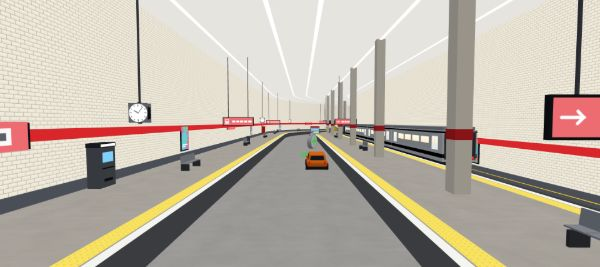
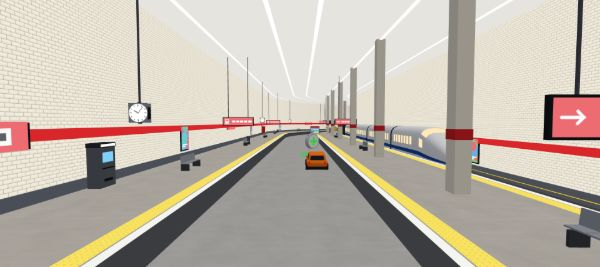
Metro Run: smooth swept pipes and finer bends; the Canberra train's carriages for the passing train, the depot and the junctions' shuttle
The owner: 'Pipes on the wall are jagged' and 'We have a train system in Canberra,
use it'. Every pipe is one swept round tube along the wall (clamps, capped ends),
every ribbon is sampled every 1.5 m in a bend. The passing train, the depot's
stabled trains and the junctions' train are render/trainModel.js makeCarriage cut
down (as a level crossing's train is), instanced; the junction keeps the tug's and
the trolleys' boxes and costs.

Claude-Session: https://claude.ai/code/session_014trpRSggBreKZkfpJKwWKg

Changed region(s): [[0.57, 0.4494, 0.75, 0.6292], [0.78, 0.4794, 0.81, 0.5993], [0.51, 0.5094, 0.54, 0.5693]]

diff --git a/src/delivery/render/themes/metro.js b/src/delivery/render/themes/metro.js
@@ -26,8 +26,8 @@ import { Game } from '../../game.js';
 import { heightOf } from '../tunnelshape.js';
 import { everyFrame } from './sceneryClock.js';
 import { Sound } from '../audio.js';
-import { kit, tileTexture, concreteTexture, liningTexture, floorTexture, tactileTexture, windowTexture, signTexture, clockTexture,
-  digitTexture, DIGIT_CELLS, posterTexture, trainGeometries, CAR_LENGTH } from './metroModels.js';
+import { kit, tileTexture, concreteTexture, liningTexture, floorTexture, tactileTexture, signTexture, clockTexture,
+  digitTexture, DIGIT_CELLS, posterTexture, metroTrainCars, CAR_LENGTH } from './metroModels.js';
 
 // the lines' colours, and each zone's: its line, its walls' tile, its floor
 const LINE = { red: 0xd8262b, blue: 0x1f6fd0, green: 0x2e9b3d, amber: 0xe8a01a };
@@ -85,13 +85,13 @@ export const metro = ({ levelGroup }) => {
   // ---- points and frames
   const pt = (s, lat, y) => { Track.toWorld(s, lat, p); return [p.x, p.y + y, p.z]; };
   // the steps along a stretch: every `base` m on the straight (a flat wall needs no more), 6 m where a height or the train line's
-  // offset eases (by a zone's ends), 3 m in a bend (a 40 m bend's chord strays 3 cm), and at each segment's end and each of `breaks`
+  // offset eases (by a zone's ends), 1.5 m in a bend (a 40 m bend's chord strays 7 mm: no kinks even close up), and at each segment's end and each of `breaks`
   const segEnds = curves.map(c => c[1]), zoneEnds = zones.map(z => z.from);
-  const easing = (s) => zoneEnds.some(e => Math.abs(s - e) < 46);
+  const easing = (s) => zoneEnds.some(e => Math.abs(s - e) < 64);
   const steps = (from, to, base = 12, breaks = []) => {
     const out = [from];
     for (let s = from; s < to;) {
-      const next = Math.min(to, s + base), d = bent(s) || bent(next) || bent((s + next) / 2) ? Math.min(3, base) : easing(s) || easing(next) ? Math.min(6, base) : base;
+      const next = Math.min(to, s + base), d = bent(s) || bent(next) || bent((s + next) / 2) ? Math.min(1.5, base) : easing(s) || easing(next) ? Math.min(6, base) : base;
       s = Math.min(to, s + d);
       out.push(s);
     }
@@ -215,19 +215,42 @@ export const metro = ({ levelGroup }) => {
   const roadLamps = (from, to, every = 8, col = C.white) => { for (let s = from + every / 2; s < to; s += every) for (const d of [-1.7, 1.7]) lamps.on(s, (L(s) + R(s)) / 2 + d, hAt(s) - 0.09, 0, 0.35, 0.12, 1.8, col); };
   // cable trays on a wall (side -1 left at L, +1 right at R or `at`): two trays, the cables in them, at 3.4 and 3.9 m
   const trays = (from, to, side, at = side < 0 ? L : R, opts = {}) => {
+    for (let q = from + 3; q < to; q += 6) if (!opts.skip?.(q)) cubes.on(q, at(q) - side * 0.2, 3.34, 0, 0.42, 0.06, 0.06, 0x4a4f57); // (its brackets)
     for (const y of [3.4, 3.9]) {
       plainS.ribbon(from, to, (s) => [at(s), y], (s) => [at(s) - side * 0.38, y], 0x6f737a, null, opts);
       plainS.ribbon(from, to, (s) => [at(s) - side * 0.38, y], (s) => [at(s) - side * 0.38, y + 0.1], 0x8a8f96, null, opts);
       onS.ribbon(from, to, (s) => [at(s) - side * 0.06, y + 0.02], (s) => [at(s) - side * 0.3, y + 0.02], y < 3.6 ? 0x1b1d22 : 0xc8501a, null, opts);
     }
   };
-  // a pipe along a wall: a square section (its top lit, its underside dark) as four ribbons, `r` m half its width, `d` m off the wall
+  // a PIPE along a wall: ONE swept tube following the wall's line (8 sides, its rings sharing their vertices so it shades smooth;
+  // a ring every 3 m in a bend, 12 on the straight: steps()), in pieces of about 300 m (so what is out of view is left out); a
+  // clamp to the wall every 3 m (small, instanced). Nothing stepped: no chords, no ends overlapping
+  const pipeMaterial = new THREE.MeshLambertMaterial({ vertexColors: true });
   const pipe = (from, to, side, y, col, at = side < 0 ? L : R, opts = {}) => {
-    const r = 0.13, d = 0.3, c = (k) => colour.set(col).multiplyScalar(k).getHex(), o = (s, e) => at(s) - side * (d + e);
-    plainS.ribbon(from, to, (s) => [o(s, -r), y + r], (s) => [o(s, r), y + r], c(1.15), null, opts);
-    plainS.ribbon(from, to, (s) => [o(s, r), y + r], (s) => [o(s, r), y - r], c(0.9), null, opts);
-    plainS.ribbon(from, to, (s) => [o(s, r), y - r], (s) => [o(s, -r), y - r], c(0.55), null, opts);
-    plainS.ribbon(from, to, (s) => [o(s, -r), y - r], (s) => [o(s, -r), y + r], c(0.7), null, opts);
+    const r = 0.14, d = 0.32, SIDES = 8, ss = steps(from, to, 12, opts.breaks || []);
+    colour.set(col);
+    for (let start = 0; start < ss.length - 1;) {
+      const end = Math.min(ss.length - 1, start + 60), pos = [], nor = [], cols = [], idx = [];
+      for (let i = start; i <= end; i++) {
+        const s0 = ss[i], c = pt(s0, at(s0) - side * d, y), o = pt(s0, at(s0) - side * d + 1, y); // (the lateral: across the road)
+        const ux = o[0] - c[0], uz = o[2] - c[2], ul = Math.hypot(ux, uz) || 1;
+        for (let k = 0; k < SIDES; k++) {
+          const a = k / SIDES * Math.PI * 2, nx = Math.cos(a) * ux / ul, ny = Math.sin(a), nz = Math.cos(a) * uz / ul;
+          pos.push(c[0] + nx * r, c[1] + ny * r, c[2] + nz * r); nor.push(nx, ny, nz); cols.push(colour.r, colour.g, colour.b);
+        }
+        if (i > start) for (let k = 0; k < SIDES; k++) { const a0 = (i - start - 1) * SIDES, a1 = a0 + SIDES, k1 = (k + 1) % SIDES; idx.push(a0 + k, a1 + k, a1 + k1, a0 + k, a1 + k1, a0 + k1); }
+      }
+      const geo = new THREE.BufferGeometry();
+      geo.setAttribute('position', new THREE.Float32BufferAttribute(pos, 3));
+      geo.setAttribute('normal', new THREE.Float32BufferAttribute(nor, 3));
+      geo.setAttribute('color', new THREE.Float32BufferAttribute(cols, 3));
+      geo.setIndex(idx);
+      geo.computeBoundingSphere();
+      levelGroup.add(new THREE.Mesh(geo, pipeMaterial));
+      start = end;
+    }
+    for (let q = from + 1.5; q < to; q += 3) if (!opts.skip?.(q)) cubes.on(q, at(q) - side * d / 2, y, 0, d, 0.08, 0.12, 0x4a4f57);
+    for (const q of [from, to]) cubes.on(q, at(q) - side * (d + 0.02) / 2, y, 0, d + 0.18, 0.32, 0.32, col); // (each end turned into the wall: no open end)
   };
   // kilometre markers on a wall: a white plate, the distance on it in the digits' cells ("1.2"), every 100 m
   const kmMarkers = (from, to, side, y = 1.9, at = side < 0 ? L : R) => {
@@ -391,7 +414,11 @@ export const metro = ({ levelGroup }) => {
     }
     for (let s = from + 4; s < to - 2; s += 9) lamps.on(s, (L(s) + R(s)) / 2, hAt(s) - 0.12, 0, 0.4, 0.14, 1.4, C.white);
     kmMarkers(from, to, -1);
-    pipe(from, to, 1, 4.4, 0x3a5a8a);
+    { // (the pipe on the right, in runs between the junctions' mouths: it turns into the wall short of each)
+      let a = from;
+      for (const m of mouths.filter(m => m.s > from && m.s < to).sort((x, y) => x.s - y.s)) { pipe(a, m.s - MOUTH - 0.3, 1, 4.4, 0x3a5a8a); a = m.s + MOUTH + 0.3; }
+      pipe(a, to, 1, 4.4, 0x3a5a8a);
+    }
   };
 
   // ---- INTERCHANGE: a tall hall, a concourse each side behind a low barrier on the wall line
@@ -530,7 +557,7 @@ export const metro = ({ levelGroup }) => {
       for (const d of [8, 13.5]) {
         for (const r of [-0.72, 0.72]) plainS.ribbon(from, to, (s) => [edge(s) + side * d + r - 0.04, 0.2], (s) => [edge(s) + side * d + r + 0.04, 0.2], C.rail);
         plainS.ribbon(from, to, (s) => [edge(s) + side * d - 1.1, 0.1], (s) => [edge(s) + side * d + 1.1, 0.1], 0x7a7470);
-        for (let s = from + 30 + rand() * 20; s + CARS * CAR_LENGTH < to - 15; s += 5 * CAR_LENGTH + 30 + rand() * 40) stabled.push({ s, lat: (q) => edge(q) + side * d, n: 5, line: d < 10 ? LINE.red : LINE.green });
+        if (d < 10) for (let s = from + 30 + rand() * 20; s + CARS * CAR_LENGTH < to - 15; s += 5 * CAR_LENGTH + 30 + rand() * 40) stabled.push({ s, lat: (q) => edge(q) + side * d, n: 5, line: d < 10 ? LINE.red : LINE.green });
       }
       for (let s = from + 25; s < to; s += 50) { tubes.on(s, edge(s) + side * 18, 8, 0, 0.35, 16, 0.35, 0x6f757d); lamps.on(s, edge(s) + side * 18 - side * 0.6, 16, 0, 1.6, 0.3, 0.8, C.warm); }
     }
@@ -625,49 +652,52 @@ export const metro = ({ levelGroup }) => {
   dummy.rotation.order = 'XYZ';
   for (const S of sheets) S.flush();
 
-  // ---- the TRAINS: one train of CARS cars for the moving one (only one train line is near the player at a time), and the depot's
-  // stabled ones (instanced, their lights off)
-  const G = trainGeometries();
-  const winTex = windowTexture();
-  const trainMeshes = (count, lit) => {
-    const m = {
-      body: new THREE.InstancedMesh(G.body, new THREE.MeshLambertMaterial({ vertexColors: true }), count),
-      band: new THREE.InstancedMesh(G.band, new THREE.MeshLambertMaterial({ color: 0xffffff }), count),
-      windows: new THREE.InstancedMesh(G.windows, new THREE.MeshBasicMaterial({ map: winTex, side: THREE.DoubleSide, color: lit ? 0xffffff : 0x5a5e66 }), count),
-    };
-    if (lit) m.lamps = new THREE.InstancedMesh(G.lamps, new THREE.MeshBasicMaterial({ vertexColors: true }), 2);
-    for (const mesh of Object.values(m)) { mesh.frustumCulled = false; levelGroup.add(mesh); }
+  // ---- the TRAINS: the CANBERRA TRAIN's carriages (render/trainModel.js makeCarriage, its white and blue shell, cut down to 12 m a
+  // car as a level crossing's train is: metroModels.js metroTrainCars), instanced: its front car, its middle ones, its back one
+  // (each a solid and a lit geometry: two draw calls a kind); the moving train's windows lit, the depot's stabled cars' dark
+  const kindsOf = (cars) => ({ front: cars.front, mid: cars.mid, back: cars.back });
+  const trainMeshes = (cars, counts) => {
+    const m = {};
+    for (const [kind, g] of Object.entries(kindsOf(cars))) {
+      if (!counts[kind]) continue;
+      m[kind] = [];
+      for (const [geo, material] of [[g.solid, new THREE.MeshLambertMaterial({ vertexColors: true, side: THREE.DoubleSide })], [g.lit, new THREE.MeshBasicMaterial({ vertexColors: true, side: THREE.DoubleSide })]]) {
+        if (!geo) continue;
+        const mesh = new THREE.InstancedMesh(geo, material, counts[kind]);
+        mesh.frustumCulled = false;
+        levelGroup.add(mesh);
+        m[kind].push(mesh);
+      }
+    }
     return m;
   };
-  const setCar = (m, i, s, lat, dir, line, lampSlot = -1) => {
+  const setCar = (meshes, i, s, lat, dir) => {
     const a = pt(s - 4, lat(s - 4), 0), b = pt(s + 4, lat(s + 4), 0), mid = pt(s, lat(s), 0);
     dummy.position.set(mid[0], mid[1], mid[2]);
     dummy.rotation.set(0, Math.atan2(b[0] - a[0], b[2] - a[2]) + (dir < 0 ? Math.PI : 0), 0);
     dummy.scale.set(1, 1, 1);
     dummy.updateMatrix();
-    m.body.setMatrixAt(i, dummy.matrix); m.band.setMatrixAt(i, dummy.matrix); m.windows.setMatrixAt(i, dummy.matrix);
-    m.band.setColorAt(i, colour.set(line));
-    if (lampSlot >= 0 && m.lamps) m.lamps.setMatrixAt(lampSlot, dummy.matrix);
+    for (const mesh of meshes) mesh.setMatrixAt(i, dummy.matrix);
   };
-  const hide = (m, i) => { dummy.position.set(0, -500, 0); dummy.scale.set(0.001, 0.001, 0.001); dummy.updateMatrix(); for (const k of ['body', 'band', 'windows']) m[k].setMatrixAt(i, dummy.matrix); };
-  const touch = (m) => { for (const mesh of Object.values(m)) { mesh.instanceMatrix.needsUpdate = true; if (mesh.instanceColor) mesh.instanceColor.needsUpdate = true; } };
+  const hide = (meshes, i) => { dummy.position.set(0, -500, 0); dummy.scale.set(0.001, 0.001, 0.001); dummy.updateMatrix(); for (const mesh of meshes) mesh.setMatrixAt(i, dummy.matrix); };
+  const touch = (m) => { for (const list of Object.values(m)) for (const mesh of list) mesh.instanceMatrix.needsUpdate = true; };
   if (stabled.length) {
-    const m = trainMeshes(stabled.reduce((n, t) => n + t.n, 0), false);
+    const n = stabled.reduce((k, t) => k + t.n, 0), m = trainMeshes(metroTrainCars(null), { mid: n });
     let i = 0;
-    for (const t of stabled) for (let k = 0; k < t.n; k++) setCar(m, i++, t.s + (k + 0.5) * CAR_LENGTH, t.lat, 1, t.line);
+    for (const t of stabled) for (let k = 0; k < t.n; k++) setCar(m.mid, i++, t.s + (k + 0.5) * CAR_LENGTH, t.lat, 1);
     touch(m);
-    for (const mesh of Object.values(m)) { mesh.computeBoundingSphere(); mesh.frustumCulled = true; } // (standing still: left out when the depot is out of view)
+    for (const mesh of m.mid) { mesh.computeBoundingSphere(); mesh.frustumCulled = true; } // (standing still: left out when the depot is out of view)
   }
   if (spans.length) {
-    const m = trainMeshes(CARS, true), lat = TC;
+    const m = trainMeshes(metroTrainCars(0xffe9b8), { front: 1, mid: CARS - 2, back: 1 }), lat = TC;
     const T = { on: false, head: 0, dir: 1, v: 0, span: null, wait: 0.6, n: 0, heard: false, last: 0 };
+    const slot = (i) => i === 0 ? [m.front, 0] : i === CARS - 1 ? [m.back, 0] : [m.mid, i - 1];
     const place = () => {
       for (let i = 0; i < CARS; i++) {
-        const s = T.head - T.dir * (i + 0.5) * CAR_LENGTH;
-        if (!T.on || s < T.span.from - CAR_LENGTH / 2 || s > T.span.to + CAR_LENGTH / 2) { hide(m, i); continue; }
-        setCar(m, i, s, lat, T.dir, lineAt(s), i === 0 ? 0 : i === CARS - 1 ? 1 : -1);
+        const s = T.head - T.dir * (i + 0.5) * CAR_LENGTH, [meshes, k] = slot(i);
+        if (!T.on || s < T.span.from - CAR_LENGTH / 2 || s > T.span.to + CAR_LENGTH / 2) { hide(meshes, k); continue; }
+        setCar(meshes, k, s, lat, T.dir);
       }
-      if (!T.on) { dummy.position.set(0, -500, 0); dummy.scale.set(0.001, 0.001, 0.001); dummy.updateMatrix(); m.lamps.setMatrixAt(0, dummy.matrix); m.lamps.setMatrixAt(1, dummy.matrix); }
       touch(m);
     };
     place();
@@ -678,7 +708,7 @@ export const metro = ({ levelGroup }) => {
         T.wait -= dt;
         if (span && T.wait <= 0 && span.to - here > 60) { // a train: by turns one overtaking from behind, then one coming the other way
           T.on = true; T.span = span; T.heard = false;
-          if (T.n++ % 2 === 0) { T.dir = 1; T.head = Math.max(span.from, here - 20); T.v = 0; } else { T.dir = -1; T.head = Math.min(span.to + CARS * CAR_LENGTH, here + 320); T.v = 20; }
+          if (T.n++ % 2 === 0) { T.dir = 1; T.head = Math.max(span.from, here - 20); T.v = 0; } else { T.dir = -1; T.head = Math.min(span.to + CARS * CAR_LENGTH, here + 320); T.v = 20; if (dt < 0.3) Sound.play('trainHorn', 0.2); } // (the Canberra train's own sounds: its horn coming, its rush going by)
         }
         return;
       }

diff --git a/src/delivery/render/themes/metroModels.js b/src/delivery/render/themes/metroModels.js
@@ -2,14 +2,15 @@
 // The theme's plain obstacles, each the box and cost of the kind it stands in for (registered in ../obstacleModels.js;
 // config.js obstacleKinds, collision.js SIZE): a ticket gate (a crate), a ride-on floor scrubber (a bale), a red track lamp
 // on its tripod (a cone); named outright a rail trolley with sleepers on it (a crate) and a wayfinding board on its legs (a
-// sign); and a tunnel junction's works train (themes.js junctionTrain): a battery locomotive (the tug's box and cost) and
-// flat wagons with a cable drum (a trolley's). Each is ONE merged mesh in vertex colours (and one lit mesh for its lamps):
+// sign); and a tunnel junction's train (themes.js junctionTrain): a shuttle of the Canberra train's carriages cut down to the
+// tug's and the trolleys' boxes and costs. Each is ONE merged mesh in vertex colours (and one lit mesh for its lamps):
 // a draw call or two, not one a part. Each faces local +z, its feet on y = 0. No people anywhere.
 // The pictures (every one drawn in code on a canvas, the first time it is wanted, then kept): glazed wall tiles, concrete,
-// a tunnel's lining segments, the polished floor, the tactile strip, the trains' windows, the signs (pictograms and
+// a tunnel's lining segments, the polished floor, the tactile strip, the signs (pictograms and
 // abstract bars, no words a brand could own), a clock face, the kilometre markers' digits.
 import * as THREE from 'three';
 import { mergeGeometries } from 'three/examples/jsm/utils/BufferGeometryUtils.js';
+import { makeCarriage } from '../trainModel.js';
 
 const colour = new THREE.Color(), euler = new THREE.Euler(), matrix = new THREE.Matrix4();
 // ---- a kit of parts merged into one mesh in vertex colours (and one unlit for whatever glows)
@@ -153,15 +154,6 @@ export const tactileTexture = () => canvasTexture('tactile', 64, 64, (g, w, h) =
   g.fillStyle = '#fff2a8';
   for (let y = 8; y < h; y += 16) for (let x = 8; x < w; x += 16) { g.beginPath(); g.arc(x - 1.5, y - 1.5, 1.6, 0, Math.PI * 2); g.fill(); }
 });
-// A TRAIN'S WINDOWS, one side of a car (256 x 64): lit panes between dark pillars, a door each end with its narrow lit panes.
-// Tinted grey for a train standing in the depot, its lights off
-export const windowTexture = () => canvasTexture('windows', 256, 64, (g, w, h) => {
-  g.fillStyle = '#2a2d33';
-  g.fillRect(0, 0, w, h);
-  const pane = (x, y, pw, ph) => { const grad = g.createLinearGradient(x, y, x, y + ph); grad.addColorStop(0, '#fff6d8'); grad.addColorStop(1, '#ffd98a'); g.fillStyle = grad; g.fillRect(x, y, pw, ph); };
-  for (const x of [8, 224]) { g.fillStyle = '#c9ccd2'; g.fillRect(x, 4, 24, 60); pane(x + 3, 8, 7, 30); pane(x + 14, 8, 7, 30); } // the doors
-  for (let k = 0; k < 4; k++) pane(44 + k * 44, 10, 36, 30); // the windows
-}, false);
 // SIGNS: a board in a line's colour with a white pictogram on the left and abstract white bars for its words (no words: the
 // owner's rule, no names a brand could own). `kind`: 'train' (a train's front), 'exit' (a door with an arrow out of it),
 // 'stairs' (steps going down), 'arrow' (an arrow along), 'name' (a station's name board: a band, bars in its middle)
@@ -305,55 +297,68 @@ export const METRO_OBSTACLES = {
     }
     return grounded(group, 1.1);
   },
-  // a tunnel junction's works train (hazards.js, themes.js junctionTrain): a BATTERY LOCOMOTIVE, a yellow cab with black and yellow
-  // ends, a lamp lit and a beacon (the tug's box and cost)...
-  batteryLoco: () => {
-    const K = kit(), yellow = 0xf2c21d, dark = 0x1b1d22;
-    K.box(1.3, 0.55, 2.0, yellow, 0, 0.55, 0);
-    K.box(1.0, 0.65, 0.8, yellow, 0, 1.15, -0.45);                          // the cab
-    K.box(1.02, 0.3, 0.6, 0x9fc4e8, 0, 1.25, -0.45);                         // its windows (no driver)
-    K.box(1.32, 0.2, 0.06, dark, 0, 0.4, 1.02); K.box(1.32, 0.2, 0.06, dark, 0, 0.4, -1.02);
-    for (let k = 0; k < 4; k++) K.box(0.18, 0.2, 0.07, yellow, -0.5 + k * 0.33, 0.4, 1.04);
-    K.box(1.2, 0.2, 2.0, 0x2a2d33, 0, 0.2, 0);
-    for (const x of [-0.5, 0.5]) for (const z of [-0.6, 0.6]) K.cyl(0.2, 0.2, 0.12, 12, dark, x, 0.2, z, 0, 0, Math.PI / 2);
-    K.glowBox(0.22, 0.14, 0.04, 0xfff4c8, -0.4, 0.75, 1.01); K.glowBox(0.22, 0.14, 0.04, 0xfff4c8, 0.4, 0.75, 1.01);
-    K.box(0.18, 0.16, 0.18, dark, 0.3, 1.56, -0.45);
-    K.glowCyl(0.1, 0.1, 0.16, 10, 0xffa020, 0.3, 1.72, -0.45);
-    return K.done();
-  },
-  // ...and its FLAT WAGONS, each a cable drum chained on (a trolley's box and cost)
-  flatWagon: () => {
-    const K = kit();
-    K.box(1.0, 0.12, 1.4, 0x4a4f57, 0, 0.38, 0);
-    for (const x of [-0.4, 0.4]) for (const z of [-0.45, 0.45]) K.cyl(0.16, 0.16, 0.08, 12, 0x1b1d22, x, 0.18, z, 0, 0, Math.PI / 2);
-    K.cyl(0.42, 0.42, 0.12, 16, 0xa8783e, -0.3, 0.86, 0, 0, 0, Math.PI / 2); K.cyl(0.42, 0.42, 0.12, 16, 0xa8783e, 0.3, 0.86, 0, 0, 0, Math.PI / 2);
-    K.cyl(0.3, 0.3, 0.5, 14, 0x1b1d22, 0, 0.86, 0, 0, 0, Math.PI / 2);     // the cable wound on it
-    K.box(1.06, 0.06, 0.06, 0xf2c21d, 0, 0.47, 0.72);
-    return K.done();
-  },
+  // a tunnel junction's train (hazards.js, themes.js junctionTrain): a SHUTTLE OF THE CANBERRA TRAIN'S CARRIAGES, cut down (as a level
+  // crossing's train is: render/roadside.js) to the hit boxes the junction's train has always had: its lead car the tug's box and cost,
+  // the two behind a trolley's each; the last one's nose points back. Their windows lit (a tunnel's train)
+  metroCarFront: () => shuttleCar('front'),
+  metroCarMid: () => shuttleCar('mid'),
+  metroCarBack: () => shuttleCar('back'),
 };
 
-// ---- a TRAIN's car, for instancing (metro.js): 12 m long along local z, 2.6 m wide, its floor 1.1 m up. The body (silver, the
-// roof, the skirts and bogies dark: one geometry in vertex colours), the band in the line's colour (its own geometry, coloured by
-// the instance), the windows (two planes, one each side, showing windowTexture) and the end's lamps (lit). No people inside: the
-// windows are lit panes, nothing behind them
-export const CAR_LENGTH = 12;
-export const trainGeometries = () => {
-  const body = kit(), band = kit(), lamps = kit(), L = CAR_LENGTH - 0.4;
-  body.box(2.6, 2.4, L, 0xd6d9de, 0, 2.2, 0);
-  body.box(2.4, 0.3, L - 0.2, 0x9aa0a8, 0, 3.5, 0);                       // the roof
-  body.box(2.5, 0.45, L - 1.2, 0x2a2d33, 0, 0.82, 0);                     // the skirt
-  for (const z of [-L / 2 + 2, L / 2 - 2]) { body.box(2.0, 0.5, 2.4, 0x1b1d22, 0, 0.45, z); for (const x of [-0.78, 0.78]) for (const dz of [-0.75, 0.75]) body.cyl(0.36, 0.36, 0.1, 8, 0x3a3d42, x, 0.36, z + dz, 0, 0, Math.PI / 2); }
-  for (const z of [-L / 2 - 0.05, L / 2 + 0.05]) body.box(2.3, 2.0, 0.1, 0x3a3d42, 0, 2.2, z); // the ends' gangway faces
-  band.box(2.64, 0.3, L, 0xffffff, 0, 1.45, 0);
-  band.box(2.64, 0.12, L, 0xffffff, 0, 3.25, 0);
-  for (const x of [-0.85, 0.85]) lamps.glowBox(0.35, 0.18, 0.06, 0xfff4d0, x, 1.35, L / 2 + 0.12);
-  for (const x of [-0.85, 0.85]) lamps.glowBox(0.35, 0.18, 0.06, 0xff2a1a, x, 1.35, -L / 2 - 0.12);
-  // the windows: a plane each side, uv across the whole car
-  const win = new THREE.BufferGeometry(), W = 1.31, y0 = 1.85, y1 = 3.0, z0 = -L / 2 + 0.3, z1 = L / 2 - 0.3;
-  win.setAttribute('position', new THREE.Float32BufferAttribute([W, y0, z1, W, y0, z0, W, y1, z0, W, y1, z1, -W, y0, z0, -W, y0, z1, -W, y1, z1, -W, y1, z0], 3));
-  win.setAttribute('uv', new THREE.Float32BufferAttribute([0, 0, 1, 0, 1, 1, 0, 1, 0, 0, 1, 0, 1, 1, 0, 1], 2));
-  win.setIndex([0, 1, 2, 0, 2, 3, 4, 5, 6, 4, 6, 7]);
-  win.computeVertexNormals();
-  return { body: body.geometries().solid, band: band.geometries().solid, lamps: lamps.geometries().lit, windows: win };
+// ---- THE CANBERRA TRAIN'S CARRIAGES, for the metro (render/trainModel.js makeCarriage: the bullet train's white and blue shell, its
+// SECTION and paint; a level crossing's train is the same, cut down). `flatten` merges a carriage's meshes into one geometry in vertex
+// colours, to be instanced (a draw call for every car of a kind, not five a car), and with `litGlass` its dark window panels become
+// lit ones (the inside lit: a train in a tunnel), moved into a second, unlit geometry with its lamps
+const GLASS = new THREE.Color(0x1b2430);
+export const flatten = (group, litGlass = null) => {
+  group.updateMatrixWorld(true);
+  const solid = [], lit = [], glass = litGlass && new THREE.Color(litGlass);
+  group.traverse((m) => {
+    if (!m.isMesh) return;
+    const g = (m.geometry.index ? m.geometry.toNonIndexed() : m.geometry.clone());
+    g.applyMatrix4(m.matrixWorld);
+    for (const name of Object.keys(g.attributes)) if (!['position', 'normal', 'color'].includes(name)) g.deleteAttribute(name);
+    const n = g.attributes.position.count, basic = m.material.type === 'MeshBasicMaterial';
+    if (!g.attributes.color) { const c = m.material.color, a = new Float32Array(n * 3); for (let i = 0; i < n; i++) a.set([c.r, c.g, c.b], i * 3); g.setAttribute('color', new THREE.BufferAttribute(a, 3)); }
+    if (basic) { lit.push(g); return; }
+    if (!glass) { solid.push(g); return; }
+    // (the glass's triangles apart: lit)
+    const col = g.attributes.color.array, pos = g.attributes.position.array, nor = g.attributes.normal.array, keep = [[], [], []], move = [[], [], []];
+    for (let t = 0; t < n; t += 3) {
+      const isGlass = Math.abs(col[t * 3] - GLASS.r) < 1e-4 && Math.abs(col[t * 3 + 1] - GLASS.g) < 1e-4 && Math.abs(col[t * 3 + 2] - GLASS.b) < 1e-4;
+      const to = isGlass ? move : keep;
+      for (let v = t; v < t + 3; v++) { to[0].push(pos[v * 3], pos[v * 3 + 1], pos[v * 3 + 2]); to[1].push(nor[v * 3], nor[v * 3 + 1], nor[v * 3 + 2]); to[2].push(...(isGlass ? [glass.r, glass.g, glass.b] : [col[v * 3], col[v * 3 + 1], col[v * 3 + 2]])); }
+    }
+    for (const [list, [P, N, C]] of [[solid, keep], [lit, move]]) {
+      if (!P.length) continue;
+      const out = new THREE.BufferGeometry();
+      out.setAttribute('position', new THREE.Float32BufferAttribute(P, 3)); out.setAttribute('normal', new THREE.Float32BufferAttribute(N, 3)); out.setAttribute('color', new THREE.Float32BufferAttribute(C, 3));
+      list.push(out);
+    }
+  });
+  return { solid: solid.length ? mergeGeometries(solid) : null, lit: lit.length ? mergeGeometries(lit) : null };
 };
+// a Canberra carriage scaled to w x h x l (m), flattened: { solid, lit }. kind 'front' (nose, lamps lit), 'back' (nose turned back,
+// its tail lamps), 'mid'; litGlass: the windows lit
+const carriageCache = new Map();
+export const canberraCar = (kind, w, h, l, litGlass = 0xffe9b8) => {
+  const key = [kind, w, h, l, litGlass].join();
+  if (carriageCache.has(key)) return carriageCache.get(key);
+  const c = makeCarriage(kind !== 'mid', kind === 'front'), holder = new THREE.Group();
+  c.scale.set(w / 3.0, h / 3.6, l / 25); // (makeCarriage's: 3.0 m wide, 3.6 tall, 25 long: CONFIG.bulletTrain)
+  if (kind === 'back') c.rotation.y = Math.PI;
+  holder.add(c);
+  const out = flatten(holder, litGlass);
+  carriageCache.set(key, out);
+  return out;
+};
+const shuttleCar = (kind) => { // (the junction's: 2.5 m a car, 1.9 m tall; the lead car 1.2 m wide (its box 1.4), the others 1.0 (theirs 0.9))
+  const g = canberraCar(kind, kind === 'front' ? 1.2 : 1.0, 1.9, 2.5), group = new THREE.Group();
+  if (g.solid) group.add(new THREE.Mesh(g.solid, new THREE.MeshLambertMaterial({ vertexColors: true, side: THREE.DoubleSide })));
+  if (g.lit) group.add(new THREE.Mesh(g.lit, new THREE.MeshBasicMaterial({ vertexColors: true, side: THREE.DoubleSide })));
+  return group;
+};
+// the metro's side-line train: a Canberra carriage CAR_LENGTH m long (cut down from 25, as a level crossing's train is, so it keeps to
+// the bore in a 40 m bend), 2.7 m wide, its full 3.6 m tall
+export const CAR_LENGTH = 12;
+export const metroTrainCars = (litGlass) => ({ front: canberraCar('front', 2.7, 3.6, CAR_LENGTH, litGlass), mid: canberraCar('mid', 2.7, 3.6, CAR_LENGTH, litGlass), back: canberraCar('back', 2.7, 3.6, CAR_LENGTH, litGlass) });

diff --git a/src/delivery/themes.js b/src/delivery/themes.js
@@ -233,10 +233,10 @@ THEMES.mall = { sky: 0x9fc4e8, ground: 0x6f7174, road: 0x3a3d42, scenery: 'mall'
 // island one between the road and the train line), 'interchange' a tall hall with concourses; then up a ramp out to the 'depot' yard.
 // shell: false: the theme draws every wall, ceiling and lamp; fog: a lit tunnel's own fog (tunnel.js: the far end of a tunnel fades
 // to its dark); camHeight/camBack: the chase camera under the arch. Unmarked and bare: one continuous floor, no lines on it.
-// junctionTrain: what a tunnel junction's train is here (hazards.js): a battery locomotive and flat wagons, not a tug and trolleys
+// junctionTrain: what a tunnel junction's train is here (hazards.js): the Canberra train's carriages cut down, not a tug and trolleys
 THEMES.metro = { sky: 0xa9b8c6, ground: 0x7a7d72, road: 0x6d7074, scenery: 'metro', unmarked: true, bare: true, lit: true,
   sets: ['approach', 'running', 'bore', 'station', 'interchange', 'exit', 'depot'],
-  pad: 'travelator', laneEnd: 'metro', junctionTrain: ['batteryLoco', 'flatWagon', 'flatWagon'],
+  pad: 'travelator', laneEnd: 'metro', junctionTrain: ['metroCarFront', 'metroCarMid', 'metroCarBack'],
   tunnel: { lit: true, shell: false, camHeight: 5.6, camBack: 12, fog: { color: 0x161a22, near: 70, far: 360 },
     heights: { running: 8.5, bore: 8.5, station: 11, interchange: 12 } },
   light: { sky: 0xf4f6ff, ground: 0x8a8a84, ambient: 1.45, sun: 0xfff2e0, sunlight: 0.9 } };

diff --git a/src/delivery/collision.js b/src/delivery/collision.js
@@ -281,7 +281,7 @@ export const Collision = (() => {
   for (const [kind, like] of Object.entries({ planter: 'bale', palmPot: 'bale', kiosk: 'bale', bench: 'crate', playBlock: 'crate', bin: 'cone' })) SIZE[kind] = SIZE[like]; // (the mall's set dressing)
   SIZE.handrail = [0.12, 1.5, 1.0]; // a boost pad's handrail section (lanegimmicks.js): as thin as the rail, 3 m long (a cone's cost: config.js)
   for (const [kind, like] of Object.entries({ barrierBlock: 'barrier', cableReel: 'crate', sandPile: 'bale', trafficDrum: 'cone', pipePallet: 'crate', worksSign: 'sign' })) SIZE[kind] = SIZE[like]; // (the roadworks')
-  for (const [kind, like] of Object.entries({ ticketGate: 'crate', scrubber: 'bale', trackLamp: 'cone', railTrolley: 'crate', infoTotem: 'sign', batteryLoco: 'tug', flatWagon: 'trolley' })) SIZE[kind] = SIZE[like]; // (the metro's)
+  for (const [kind, like] of Object.entries({ ticketGate: 'crate', scrubber: 'bale', trackLamp: 'cone', railTrolley: 'crate', infoTotem: 'sign', metroCarFront: 'tug', metroCarMid: 'trolley', metroCarBack: 'trolley' })) SIZE[kind] = SIZE[like]; // (the metro's)
   SIZE.laneEnd = [1.6, 0.4, 2.8]; // a dead-end lane's end wall: a lane wide (lanegimmicks.js)
   // what a level's own obstacle of that kind is on its theme (its "obstacles", "shoulderRows" and "drifters"
   // only: what a gimmick puts out, a cargo truck's load among it, is what it always was)

diff --git a/src/delivery/config.js b/src/delivery/config.js
@@ -671,7 +671,7 @@ export const CONFIG = {
     boxStack: { damage: 31, speedKept: 0.75 }, trolleyRow: { damage: 38, speedKept: 0.75 }, wetFloorSign: { damage: 3, speedKept: 0.94, light: true }, // the mall's: cartons on a sack truck (a crate), nested shopping trolleys (a bale), a WET FLOOR A-frame (a cone)
     ticketGate: { damage: 31, speedKept: 0.75 }, scrubber: { damage: 38, speedKept: 0.75 }, trackLamp: { damage: 3, speedKept: 0.94, light: true }, // the metro's: a ticket gate (a crate), a ride-on floor scrubber (a bale), a track lamp (a cone)
     railTrolley: { damage: 31, speedKept: 0.75 }, infoTotem: { damage: 32, speedKept: 0.8 }, // ...and named outright: a rail trolley of sleepers (a crate's), a wayfinding board (a sign's)
-    batteryLoco: { damage: 14, speedKept: 0.8, light: true }, flatWagon: { damage: 8, speedKept: 0.88, light: true }, // ...and a tunnel junction's train there (themes.js junctionTrain): the tug's and the trolley's
+    metroCarFront: { damage: 14, speedKept: 0.8, light: true }, metroCarMid: { damage: 8, speedKept: 0.88, light: true }, metroCarBack: { damage: 8, speedKept: 0.88, light: true }, // ...and a tunnel junction's train there (themes.js junctionTrain: the Canberra train's carriages, cut down): the tug's and the trolleys'
   },
   // drifters: obstacles moving about the road in patterns (a level's "drifters")
   drifters: {

diff --git a/src/delivery/render/obstacleModels.js b/src/delivery/render/obstacleModels.js
@@ -1276,4 +1276,4 @@ Object.assign(OBSTACLE_MODELS, TUSCANY_OBSTACLES); // Tuscany's: wineCrates, hay
 Object.assign(OBSTACLE_MODELS, DESERT_OBSTACLES);
 Object.assign(OBSTACLE_MODELS, MALL_OBSTACLES); // the mall's (render/themes/mallModels.js): cartons on a sack truck, a row of nested trolleys, a WET FLOOR sign
 Object.assign(OBSTACLE_MODELS, ROADWORKS_OBSTACLES); // the roadworks' (render/themes/roadworksModels.js): barrier blocks, a cable drum, a heap of sand; a traffic drum, a pallet of pipes, a works sign
-Object.assign(OBSTACLE_MODELS, METRO_OBSTACLES); // the metro's (render/themes/metroModels.js): a ticket gate, a floor scrubber, a track lamp; a rail trolley, a wayfinding board; a junction's battery locomotive and flat wagons
+Object.assign(OBSTACLE_MODELS, METRO_OBSTACLES); // the metro's (render/themes/metroModels.js): a ticket gate, a floor scrubber, a track lamp; a rail trolley, a wayfinding board; a junction's shuttle of Canberra carriages

diff --git a/CHECKLIST.md b/CHECKLIST.md
@@ -685,3 +685,4 @@ Working list, from the owner's ideas of 2026-10-09. `[x]` done, `[~]` partly don
   - BUDGET (headless Chromium, software GL, a throwaway counter page: the most draw calls / triangles in a frame): Central station 196 / 58k, running tunnel A with the train passing 279 / 100k, the interchange at its junction 422 / 102k, the depot 72 / 78k; Mall Dash by the same method: atrium 310 / 291k, at a junction 496 / 301k. The theme's sheets and instances are kept per 400 m square of the world so what is out of view is left out.
   - SEEN (stills READ, software GL, /tmp/metro/final/): the cutting and the portal, the running tunnel, the train passing, both stations (one with a travelator), a bore with a junction's mouths and the works train, the interchange with its junction, the phone frame (390 x 844), the sealed wall and the service gate, a travelator with its handrails, the six obstacles on the Gimmicks page, both cargo items on the cargo page (before the ticket rolls got their orange edge), the depot, a station's end face, the menu pictures. FIXED from what was seen: the train not moving in stills (now on the run's clock), yellow bands that read as lines, obstacles in the open lane beside two dead lanes, coplanar platform ends, the roof too near the ground by the exit portal (moved 15 m in).
   - NOT VERIFIED: nobody has played it by hand (the bends at speed, the junction timing, the dead ends in tunnels, whether it is fun); motion (the train, the travelators' belts, beacons) only in stills; the pass-by sound not heard; a real GPU or the Mi Pad; a real phone; the delivery set-down at the depot; the Evil rats in the HUD.
+  - THE OWNER'S FEEDBACK (15-Oct; same branch, placeholder number): (1) "PIPES ON THE WALL ARE JAGGED": the stills the owner saw were taken before the pipes were rebuilt (instanced 4 m cylinder chords, stepping in the bends); the reported head already drew them as square ribbons, still faceted and with small kinks in the bends. NOW every pipe is ONE swept round tube following the wall's line (8 sides, shared ring vertices: smooth shading), in pieces of about 300 m, with clamps every 3 m and each end turned into the wall (no open ends; the bore's pipe stops short of each junction's mouth); every ribbon along the road (trays, bands, dado, platform edges and tactile strips, lit strips, barrier rails, coping, fences, kerbs) is sampled every 1.5 m in a bend (was 3: a 40 m bend's chord now strays 7 mm) and every 6 m where a height or the train line's offset eases; tray brackets every 6 m. Before / after stills at wall height in two bends and at a junction: /tmp/metro/fix/before/ and /tmp/metro/fix/after/ (bendA, bendB, junctionB, runA), READ: the kinks are gone. (2) "WE HAVE A TRAIN SYSTEM IN CANBERRA, USE IT": the passing train is now the Canberra train's carriages (render/trainModel.js makeCarriage: the bullet train's white shell, blue stripe, SECTION, duck-bill noses at both ends), cut down to 12 m a car and 2.7 m wide as a level crossing's train is cut down (render/roadside.js scales the same model), its full 3.6 m tall (fits the bore: the far wall 2.3 m from the line's middle, the platform edge 1.9); flattened into one geometry a kind (metroModels.js `flatten`/`canberraCar`) and instanced: front, middle, back, 6 draw calls; its dark window panels turned into lit ones (a tunnel's train); its sounds the Canberra train's own (`trainHorn` as one comes the other way, `trainPass` as it goes by). Its movement stays metro.js's own (bullettrain.js is a lethal logic object on the road, set off by the mystery pickup and the median railway: not for a render-only train behind a wall). The depot's stabled trains are the same carriages (20 cars, the near sidings; their windows dark). The JUNCTION'S TRAIN is now a shuttle of three Canberra carriages cut down to the junction's own boxes (`metroCarFront` the tug's box and cost, `metroCarMid` / `metroCarBack` the trolleys': hazards.js and its rules unchanged; the back car's nose points back; the battery locomotive and flat wagons are gone). A LEVEL CROSSING at the depot (the `crossings` gimmick, crossing.js: lights, booms, the same carriages crossing the road; a train that wrecks what it hits, a boom that costs 10 health) would be one entry in the level (straight road there: 3190-3330) and its CINE: nearly free in code, but a fourth thematic gimmick: NOT added (the owner's call). CHECKED: `.metro-check` (now also: each junction's train is three cut-down Canberra carriages at the tug's and the trolleys' costs and boxes), `.tunneljunction`, `.hazards`, `.gimmicks3`, `.obstacles`, `.lanegimmicks`, `.schema`, `.words`, `.replay-check metro-run`, `delivery-levels-check`, the render group (25 scripts, 0 failed), eslint on every changed file, `vite build`; the menu pictures made again (the Canberra train in at the island platform). BUDGET, the same four places and method: Central station 314 / 133k (the train in at the platform this time; 196 / 58k before, without it), running tunnel A with the train passing 289 / 128k (279 / 100k), the interchange at its junction 345 / 68k (422 / 102k), the depot 72 / 102k (72 / 78k); Mall Dash 310 / 291k, 496 / 301k. NOT VERIFIED: motion (the train, the shuttle crossing) only in stills; the sounds not heard; a real GPU or phone; by hand.
